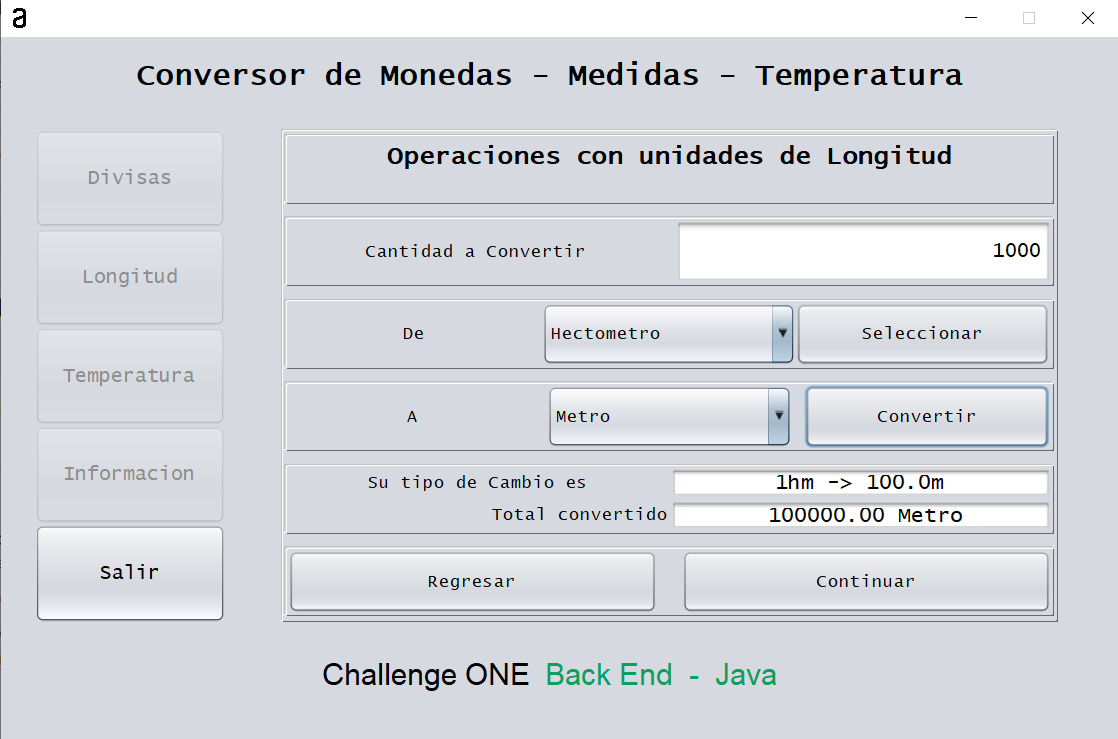
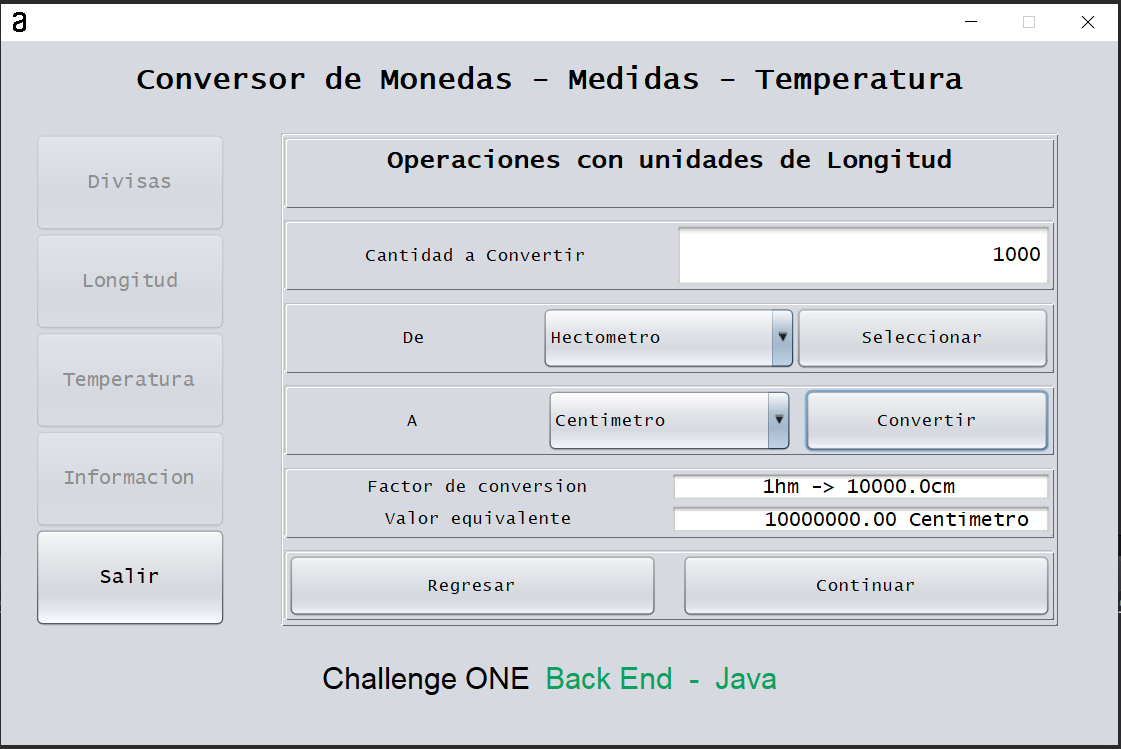
Correccion de informacion en el proceso de Logitud.

diff --git a/src/procesos/Longitud.java b/src/procesos/Longitud.java
@@ -252,7 +252,7 @@ public class Longitud implements ActionListener {
 		Medida medida2 = new Medida(2,  "Hectometro ",  100, "hm");
 		Medida medida3 = new Medida(3,  "Decametro  ",   10, "dam");
 		Medida medida4 = new Medida(4,  "Metro      ",    1, "m");
-		Medida medida5 = new Medida(5,  "Dedimetro  ",  0.1, "dm");
+		Medida medida5 = new Medida(5,  "Decimetro  ",  0.1, "dm");
 		Medida medida6 = new Medida(6,  "Centimetro ", 0.01, "cm");
 		Medida medida7 = new Medida(7,  "Milimetro  ",0.001, "mm");
 		
@@ -279,7 +279,9 @@ public class Longitud implements ActionListener {
 		txtMonto.setHorizontalAlignment(JTextField.RIGHT);
 		panelMonto.add(txtMonto);
 
-		resultadoInfo = Dibujar.dibujaLabel("Su tipo de Cambio es", 14);
+		
+		resultadoInfo = Dibujar.dibujaLabel("Factor de conversion", 14);
+
 		panelResultado.add(resultadoInfo);
 
 		mostrarInfo = Dibujar.dibujaGetNum(30, 17);
@@ -287,7 +289,7 @@ public class Longitud implements ActionListener {
 		mostrarInfo.setEditable(false);
 		panelResultado.add(mostrarInfo);
 
-		resultadoValor = Dibujar.dibujaLabel("Total convertido", 14);
+		resultadoValor = Dibujar.dibujaLabel("Valor equivalente", 14);
 		resultadoValor.setHorizontalAlignment(JTextField.RIGHT);
 		panelResultado.add(resultadoValor);
 
